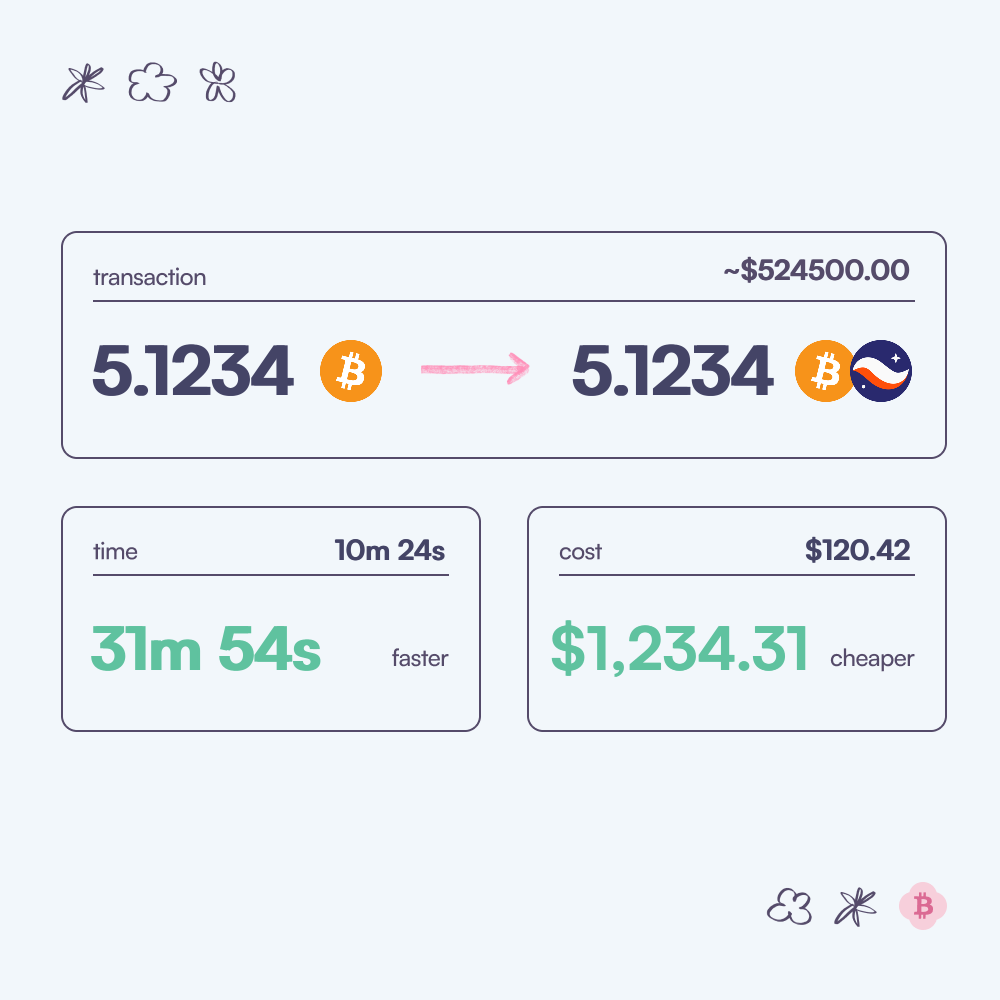
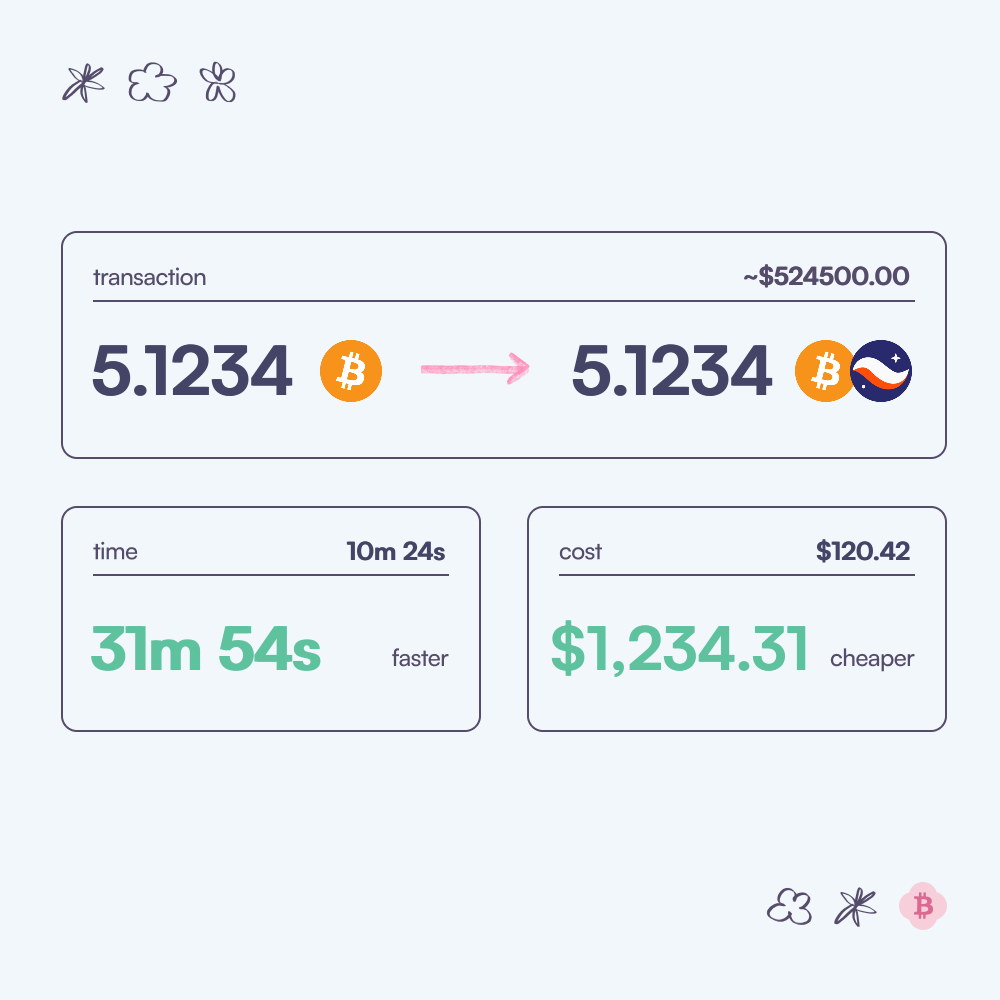
Chore: Fix hardcoded values

diff --git a/src/templates/garden_order.ts b/src/templates/garden_order.ts
@@ -164,9 +164,9 @@ export class GardenOrderTemplate implements ImageTemplate {
     ctx.shadowBlur = 0;
     ctx.shadowOffsetX = 1;
     ctx.shadowOffsetY = 0;
-    ctx.font = "bold 28px Satoshi";
+    ctx.font = "bold 25px Satoshi";
     ctx.textAlign = "right";
-    ctx.fillText(`~$${volume.toFixed(2)}`, 910, 280);
+    ctx.fillText(`~$${volume.toFixed(2)}`, 910, 285);
     ctx.shadowOffsetX = 0;
   }
 
@@ -192,7 +192,7 @@ export class GardenOrderTemplate implements ImageTemplate {
     // Source amount (left side)
     ctx.shadowColor = ctx.fillStyle;
     ctx.shadowBlur = 0;
-    ctx.shadowOffsetX = 3;
+    ctx.shadowOffsetX = 1.5;
     ctx.shadowOffsetY = 0;
     ctx.fillText(source_amount, 90, 395);
     // Reset shadow after drawing
@@ -200,7 +200,7 @@ export class GardenOrderTemplate implements ImageTemplate {
 
     // Destination amount (right side)
     ctx.shadowBlur = 0;
-    ctx.shadowOffsetX = 3;
+    ctx.shadowOffsetX = 1.5;
     ctx.shadowOffsetY = 0;
     ctx.fillText(destination_amount, 570, 395);
     ctx.shadowOffsetX = 0;
@@ -247,7 +247,7 @@ export class GardenOrderTemplate implements ImageTemplate {
     ctx.shadowBlur = 0;
     ctx.shadowOffsetX = 1;
     ctx.shadowOffsetY = 0;
-    ctx.font = "bold 28px Satoshi";
+    ctx.font = "bold 25px Satoshi";
     ctx.textAlign = "right";
     ctx.fillText(totalTime, 445, 560);
     ctx.shadowOffsetX = 0;
@@ -278,7 +278,7 @@ export class GardenOrderTemplate implements ImageTemplate {
     ctx.shadowBlur = 0;
     ctx.shadowOffsetX = 1;
     ctx.shadowOffsetY = 0;
-    ctx.font = "bold 28px Satoshi";
+    ctx.font = "bold 25px Satoshi";
     ctx.textAlign = "right";
     ctx.fillText(totalFee.toString(), 910, 560);
     ctx.shadowOffsetX = 1;

diff --git a/src/tests/image_test.ts b/src/tests/image_test.ts
@@ -19,8 +19,8 @@ async function testGardenOrderTemplate() {
       destination_chain: "arbitrum_sepolia",
       destination_asset: "0x795Dcb58d1cd4789169D5F938Ea05E17ecEB68cA",
       source_amount: "50000000000000000",
-      source_swap_amount: "5.14",
-      destination_swap_amount: "5.14",
+      source_swap_amount: "5.1234",
+      destination_swap_amount: "5.1234",
       destination_amount: "119560",
       input_token_price: 2500,
       output_token_price: 103000,
@@ -29,8 +29,8 @@ async function testGardenOrderTemplate() {
       volume: 524500.0,
       feeSaved: 1234.31,
       timeSaved: "31m 54s",
-      totalTimeOfOthersMax: "1h",
-      totalAmountOthersMax: "$321",
+      totalTimeOfOthersMax: "10m 24s",
+      totalAmountOthersMax: "$120.42",
     };
 
     logger.info("Mock order created:", mockOrder);

diff --git a/src/services/metrics.ts b/src/services/metrics.ts
@@ -243,8 +243,7 @@ export async function fetchHighVolumeOrders(
     if (!networkInfo) {
       // Use environment variable for API URL instead of hardcoding
       const apiUrl =
-        process.env.NETWORK_API_URL ||
-        "https://xcgg04skw4k044ws8swok4gw.65.109.18.60.sslip.io/networks";
+        process.env.NETWORK_API_URL || "https://api.garden.finance/info/assets";
       logger.info(`Fetching network info from ${apiUrl}`);
       networkInfo = await getAssetInfo(apiUrl);
     }
